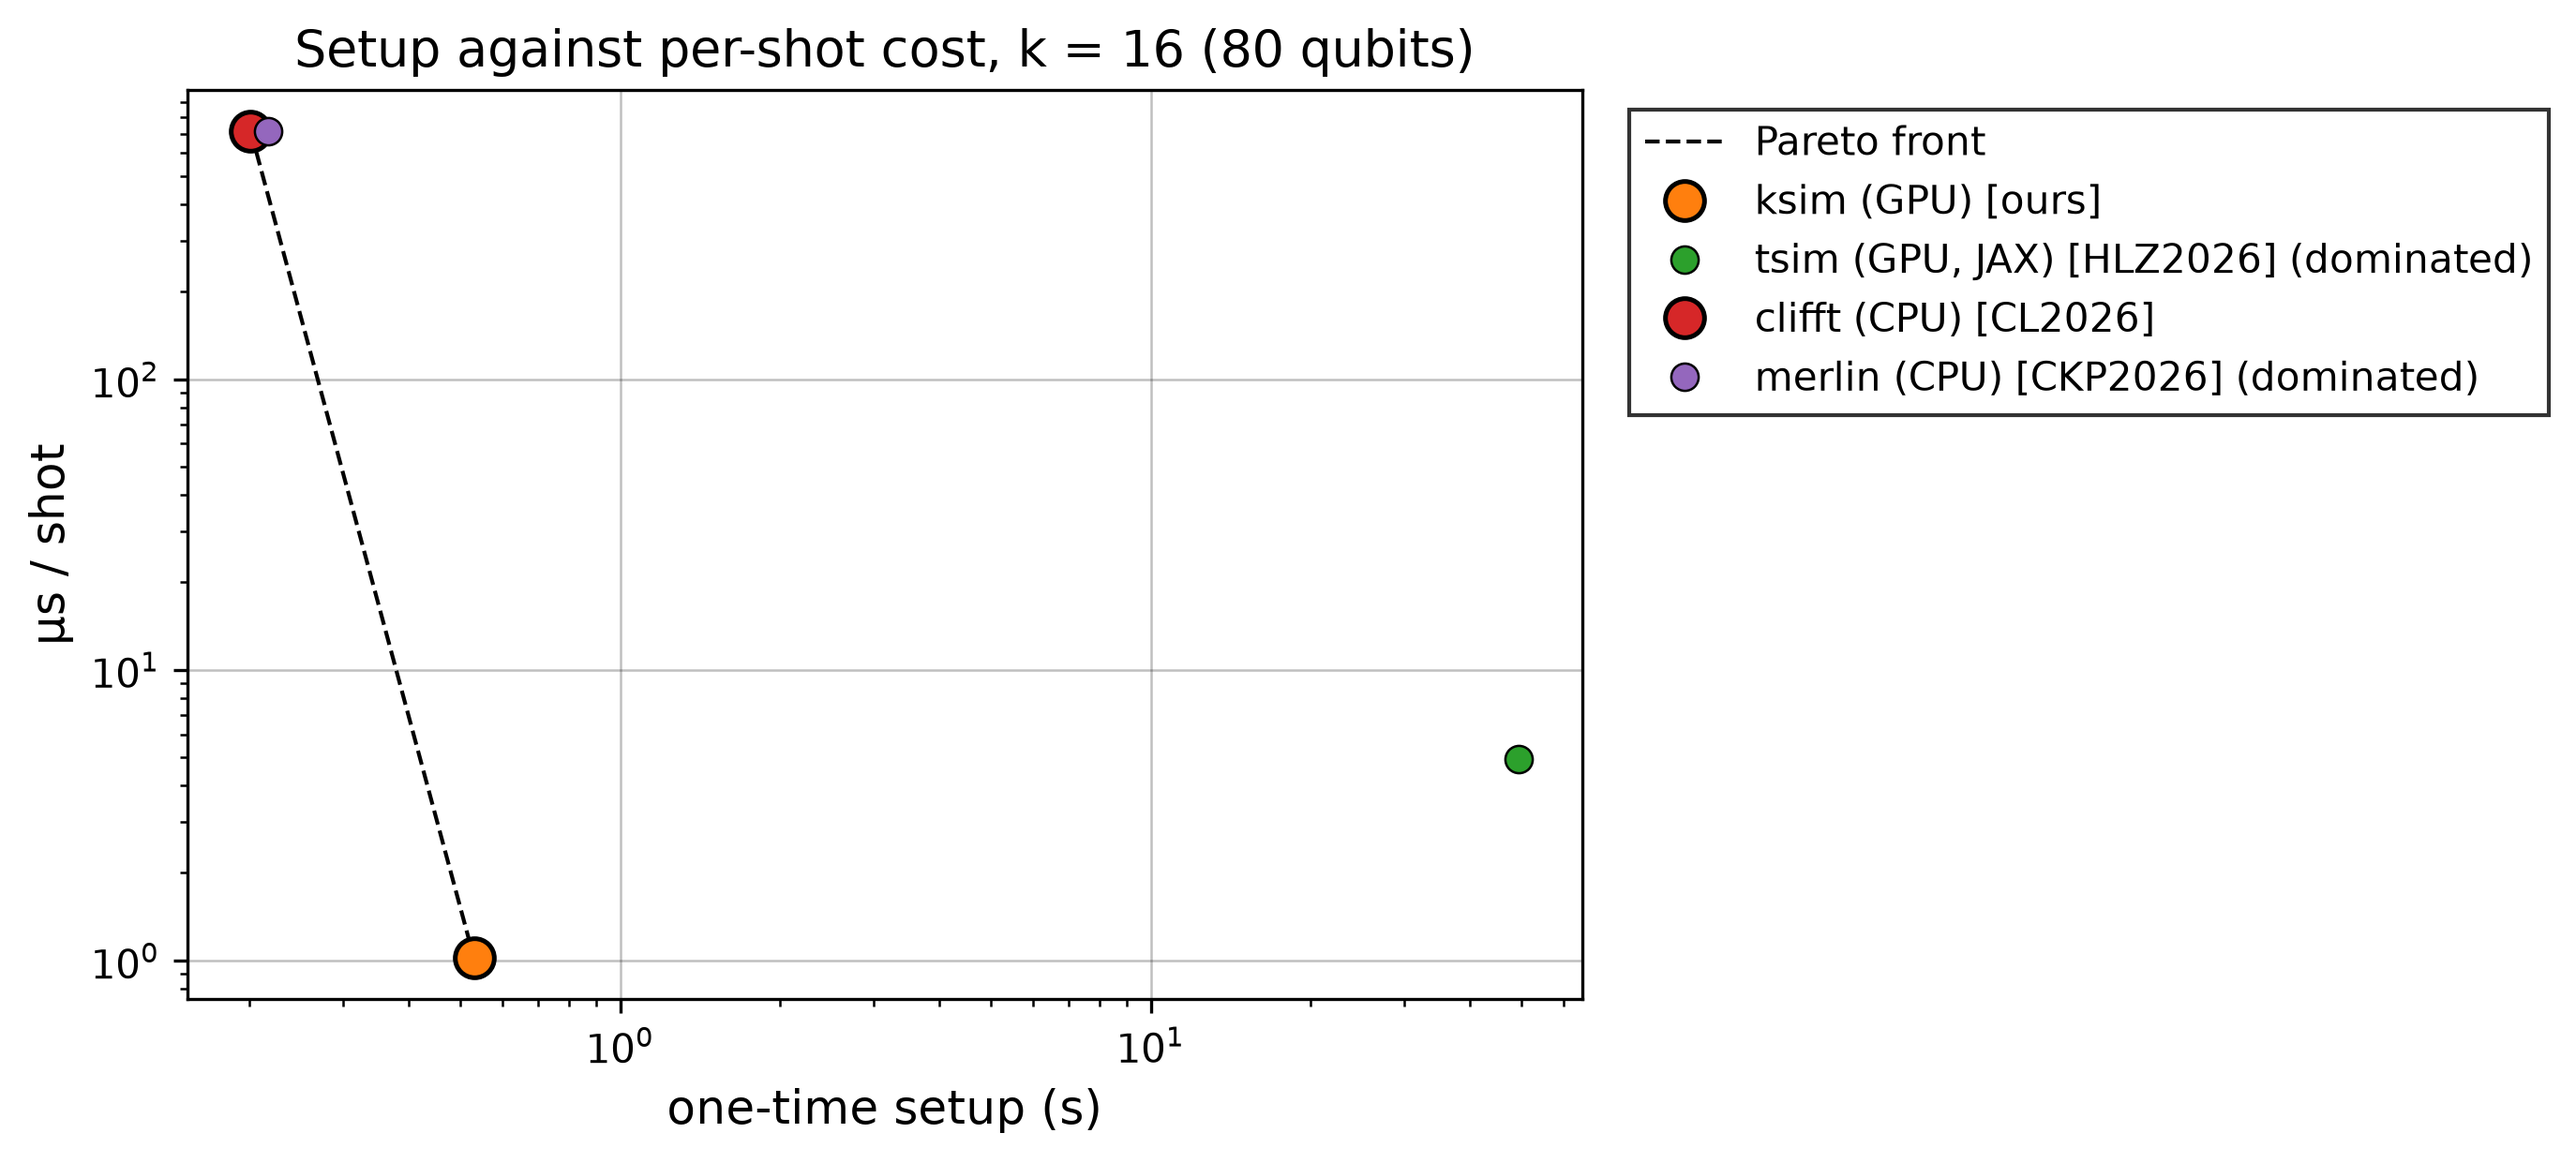
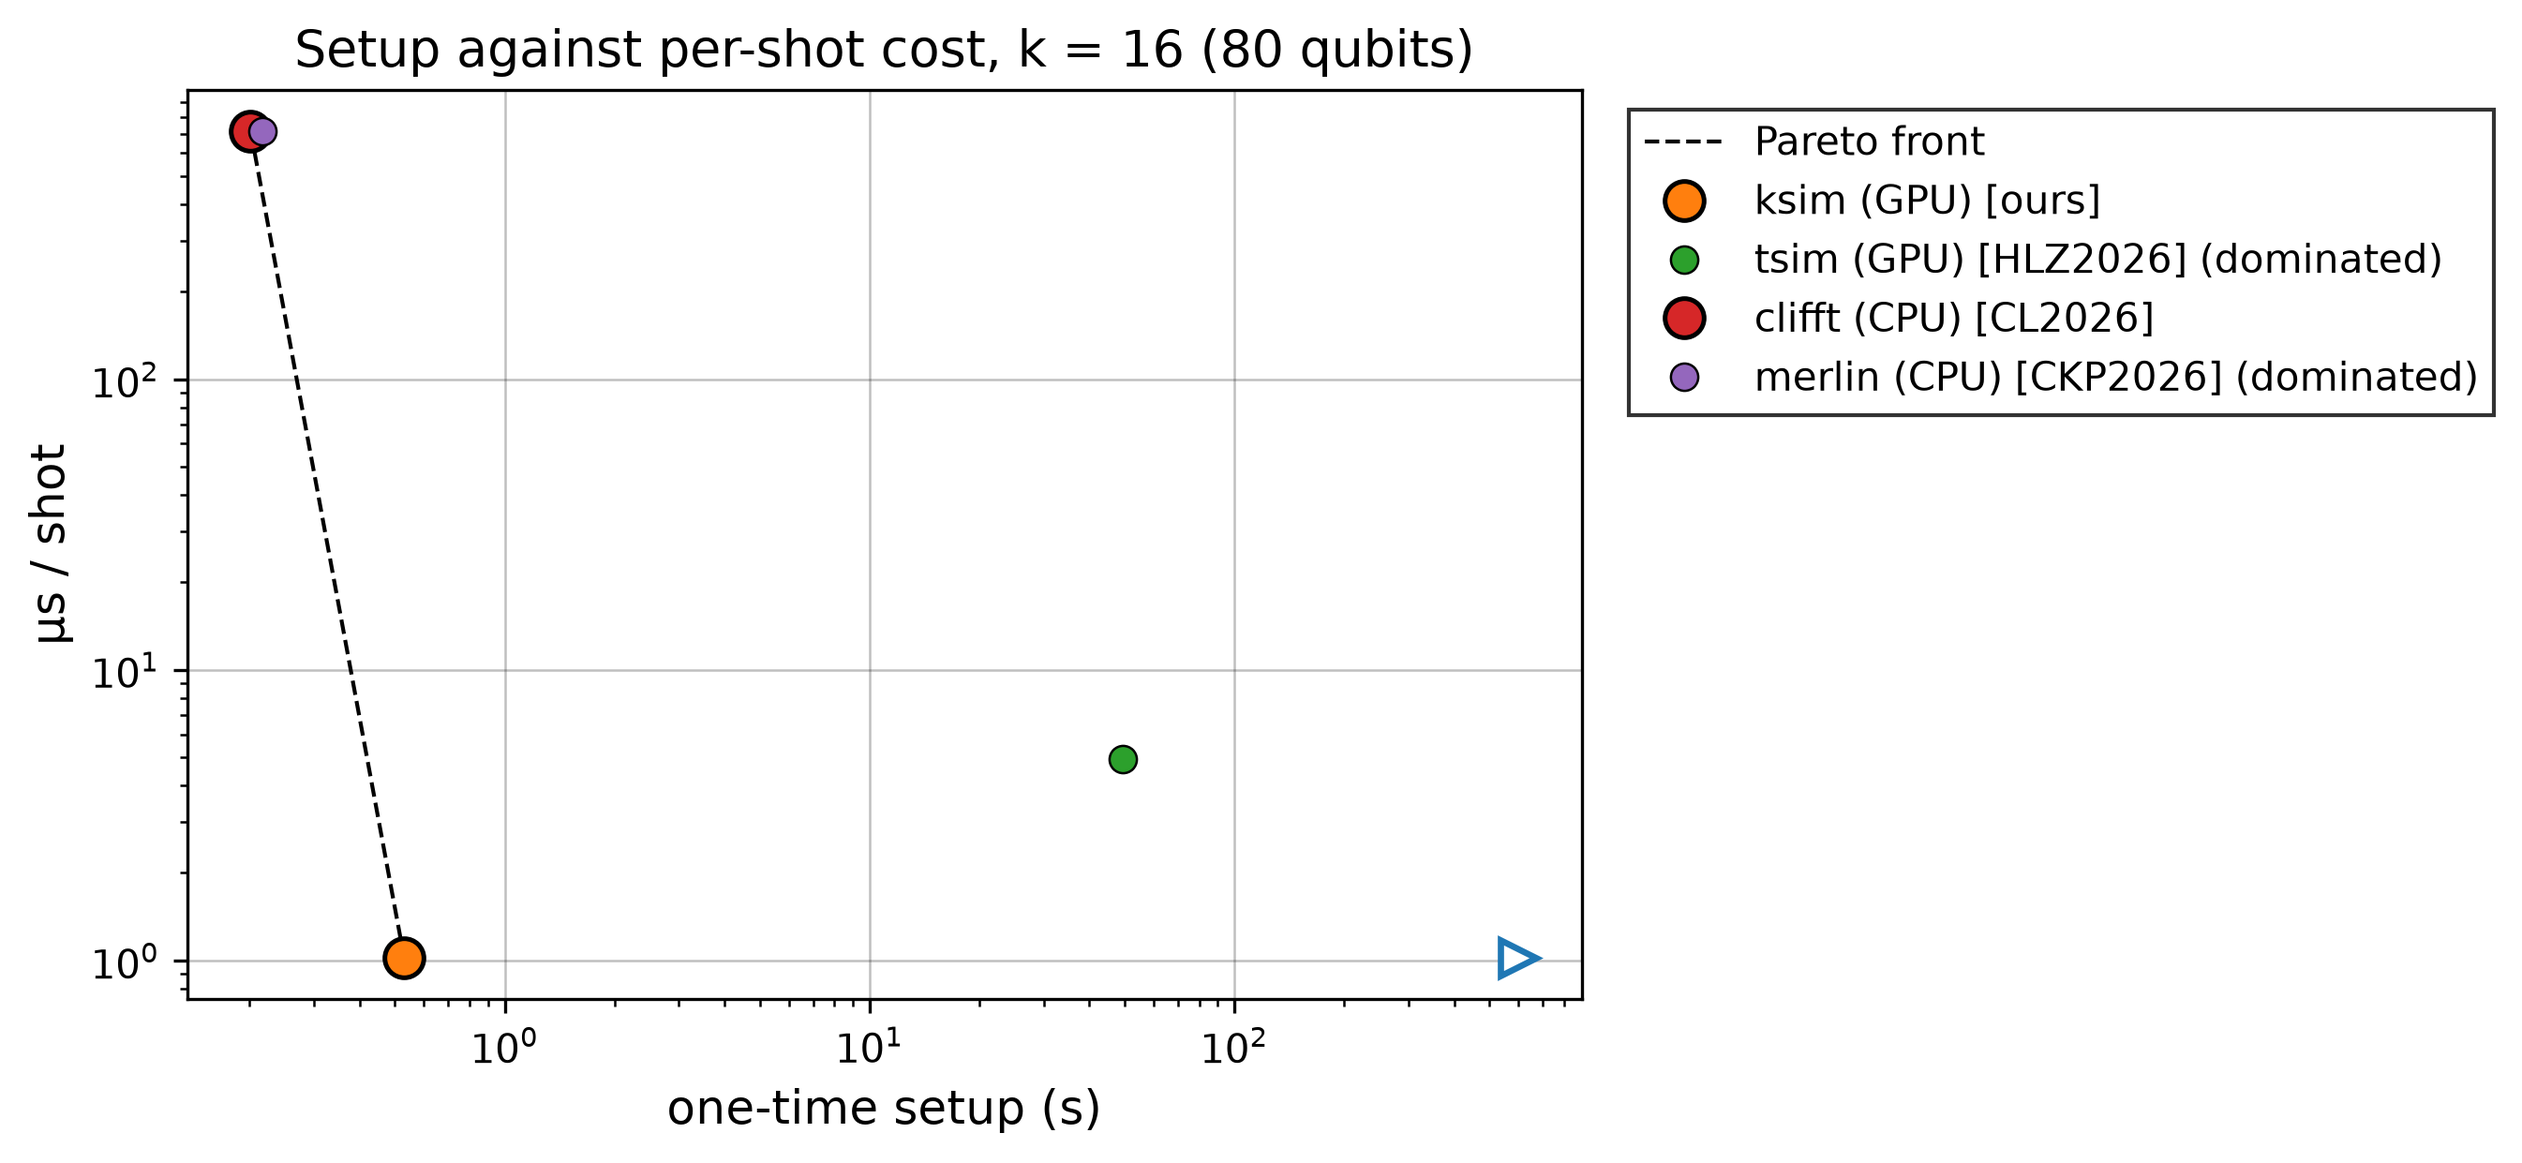
bench_scaling: time xtim's sampler build alone; re-measured xtim
compile_detector_sampler does not use the reference built by a separate
compile_reference() call, so that call only inflated xtim's setup 2-3.6x.
xtim re-measured: 110 s at k=14, 264 s at k=15, killed at k=16. Crossovers
in docs/benchmarks.md moved accordingly (ksim fastest from k=10 at 1e6
shots, k=14 at 1e8). tsim legend label drops 'JAX'.

diff --git a/benchmarks/bench_scaling.py b/benchmarks/bench_scaling.py
@@ -150,14 +150,14 @@ def warm(draw, shots, seconds, batch=None):
 def xtim_point(text, shots, seconds, q):
     import xtim
     t0 = time.perf_counter()
-    circuit = xtim.Circuit(text)
-    chi = circuit.compile_reference().chi
-    sampler = circuit.compile_detector_sampler(seed=7)
+    # The sampler builds what it needs itself; a separate compile_reference() would
+    # only add its own cost (χ = 2^k here by construction, so it is not measured).
+    sampler = xtim.Circuit(text).compile_detector_sampler(seed=7)
     sampler.sample(256)
     setup = time.perf_counter() - t0
     us, n, dets = warm(lambda m: np.asarray(sampler.sample(m, separate_observables=True)[0]),
                        shots, seconds)
-    q.put({"chi": chi, "setup_s": setup, "us_per_shot": us, "shots": n,
+    q.put({"setup_s": setup, "us_per_shot": us, "shots": n,
            "rates": dets.mean(axis=0).tolist()})
 
 

diff --git a/benchmarks/plot_scaling.py b/benchmarks/plot_scaling.py
@@ -46,7 +46,7 @@ COLOURS = {"xtim": "#1f77b4", "ksim": "#ff7f0e", "tsim": "#2ca02c",
            "clifft": "#d62728", "merlin": "#9467bd"}
 LABELS = {"xtim": "xtim (CPU) [SDK2025]",
           "ksim": "ksim (GPU) [ours]",
-          "tsim": "tsim (GPU, JAX) [HLZ2026]",
+          "tsim": "tsim (GPU) [HLZ2026]",
           "clifft": "clifft (CPU) [CL2026]",
           "merlin": "merlin (CPU) [CKP2026]"}
 # SDK2025         arXiv:2512.23799   Surti, Daguerre, Kim, "Efficient simulation of logical

diff --git a/docs/benchmarks.md b/docs/benchmarks.md
@@ -48,10 +48,10 @@ within 2.5σ across all six of its protocol circuits.
 - **Scaling:** kokkos_sim scales where xtim, clifft and tsim do not ([scaling](#scaling)).
   - Over k independent magic states, its setup stays at 0.3–0.5 s and its per-shot cost grows
     linearly (0.03 → 1.0 µs/shot from k = 1 to 16).
-  - xtim compiles a reference of χ = 2^k, growing ~×2.5 per state, and stops finishing in 10 min
-    at k = 15. clifft's per-shot cost doubles per state (713 µs/shot at k = 16).
+  - xtim builds a sampler for χ = 2^k, growing ~×2.4 per state, and stops finishing in 10 min
+    at k = 16. clifft's per-shot cost doubles per state (713 µs/shot at k = 16).
   - kokkos_sim is on the setup/per-shot Pareto front at every k; tsim and merlin never are.
-  - It is the fastest end to end from k = 8 at 10^6 shots and from k = 12 at 10^8.
+  - It is the fastest end to end from k = 10 at 10^6 shots and from k = 14 at 10^8.
   - It also samples circuits outside xtim's class (T-depth ≥ 2), which xtim refuses.
 - **tsim** runs the same stabilizer-rank sum as kokkos_sim, ~25–350× slower and with a 10–14 s
   JIT per circuit shape.
@@ -137,7 +137,7 @@ Decision guide — which sampler to use:
 | Magic-state prep inside generalized T-depth 1 | xtim | χ = 2^{folded rank}, T-count free; exact per-shot ⟨P⟩ |
 | Non-Clifford, small peak_rank (k ≤ ~8) | clifft | 2^k ≤ 256 amplitudes, no GPU needed |
 | Non-Clifford, many T-gates (t ≥ 15) | kokkos_sim | χ ≈ 2^{0.228t} beats 2^k at scale; GPU |
-| Many independent magic states (k ≳ 8 at 10^6 shots, k ≳ 12 at 10^8, any k ≥ 15) | kokkos_sim | cost linear in k; xtim's reference compile grows ~2.5× per state and clifft's per-shot cost ×2 per state ([scaling](#scaling)) |
+| Many independent magic states (k ≳ 10 at 10^6 shots, k ≳ 14 at 10^8, any k ≥ 16) | kokkos_sim | cost linear in k; xtim's sampler build grows ~2.4× per state and clifft's per-shot cost ×2 per state ([scaling](#scaling)) |
 | T-depth ≥ 2 after folding (xtim refuses) | kokkos_sim | stabilizer-rank has no structural restriction on the T layer |
 | Rare-event LER (no millions of shots) | clifft | `sample_k()` importance sampling — unique |
 
@@ -160,17 +160,17 @@ Each cell is setup / µs per shot:
 
 | k | qubits | xtim (χ = 2^k) | ksim | tsim | clifft | merlin |
 |---|---|---|---|---|---|---|
-| 1 | 5 | 0.004 s / 0.050 | 0.33 s / **0.030** | 4.7 s / 0.90 | 0.001 s / 0.064 | 0.002 s / 5.0 |
-| 2 | 10 | 0.007 s / **0.048** | 0.29 s / 0.067 | 8.1 s / 1.12 | 0.002 s / 0.17 | 0.006 s / 13.7 |
-| 4 | 20 | 0.025 s / **0.039** | 0.33 s / 0.14 | 14.3 s / 1.55 | 0.002 s / 0.53 | 0.019 s / 44 |
-| 6 | 30 | 0.14 s / **0.050** | 0.35 s / 0.24 | 20.3 s / 2.23 | 0.002 s / 1.47 | 0.036 s / 92 |
-| 8 | 40 | 0.96 s / **0.059** | 0.39 s / 0.36 | 26.0 s / 2.89 | 0.003 s / 2.8 | 0.067 s / 180 |
-| 10 | 50 | 7.4 s / **0.055** | 0.42 s / 0.49 | 32.4 s / 3.68 | 0.005 s / 8.6 | 0.089 s / 275 |
-| 12 | 60 | 67 s / **0.061** | 0.46 s / 0.61 | 38.0 s / 4.00 | 0.014 s / 40 | 0.12 s / 394 |
-| 13 | 65 | 164 s / **0.059** | 0.46 s / 0.68 | 41.0 s / 4.24 | 0.027 s / 83 | 0.14 s / 467 |
-| 14 | 70 | 400 s / **0.060** | 0.49 s / 0.75 | 44.1 s / 4.31 | 0.048 s / 168 | 0.16 s / 538 |
-| 15 | 75 | > 600 s (killed) | 0.50 s / **0.82** | 46.7 s / 4.70 | 0.091 s / 334 | 0.18 s / 627 |
-| 16 | 80 | not run | 0.53 s / **1.02** | 49.4 s / 4.92 | 0.20 s / 713 | 0.22 s / 714 |
+| 1 | 5 | 0.002 s / 0.050 | 0.33 s / **0.030** | 4.7 s / 0.90 | 0.001 s / 0.064 | 0.002 s / 5.0 |
+| 2 | 10 | 0.003 s / **0.046** | 0.29 s / 0.067 | 8.1 s / 1.12 | 0.002 s / 0.17 | 0.006 s / 13.7 |
+| 4 | 20 | 0.013 s / **0.059** | 0.33 s / 0.14 | 14.3 s / 1.55 | 0.002 s / 0.53 | 0.019 s / 44 |
+| 6 | 30 | 0.063 s / **0.049** | 0.35 s / 0.24 | 20.3 s / 2.23 | 0.002 s / 1.47 | 0.036 s / 92 |
+| 8 | 40 | 0.44 s / **0.058** | 0.39 s / 0.36 | 26.0 s / 2.89 | 0.003 s / 2.8 | 0.067 s / 180 |
+| 10 | 50 | 2.9 s / **0.044** | 0.42 s / 0.49 | 32.4 s / 3.68 | 0.005 s / 8.6 | 0.089 s / 275 |
+| 12 | 60 | 18.5 s / **0.052** | 0.46 s / 0.61 | 38.0 s / 4.00 | 0.014 s / 40 | 0.12 s / 394 |
+| 13 | 65 | 45 s / **0.058** | 0.46 s / 0.68 | 41.0 s / 4.24 | 0.027 s / 83 | 0.14 s / 467 |
+| 14 | 70 | 110 s / **0.069** | 0.49 s / 0.75 | 44.1 s / 4.31 | 0.048 s / 168 | 0.16 s / 538 |
+| 15 | 75 | 264 s / **0.078** | 0.50 s / 0.82 | 46.7 s / 4.70 | 0.091 s / 334 | 0.18 s / 627 |
+| 16 | 80 | > 600 s (killed) | 0.53 s / **1.02** | 49.4 s / 4.92 | 0.20 s / 713 | 0.22 s / 714 |
 
 Detector fire rates of xtim, tsim and clifft agree with ksim within 3.0σ at every k. merlin returns
 raw measurements rather than detectors, so it is timed only.
@@ -178,20 +178,23 @@ raw measurements rather than detectors, so it is timed only.
 ![One-time cost against k](../example/figure/scaling_setup.png)
 
 **Setup.** xtim pays χ once, at build time. Its folded π/8 layer has rank k, so its reference
-state has χ = 2^k, and compiling it grows ~×2.5 per added magic state: from milliseconds at
-k ≤ 4 to 400 s at k = 14. It did not finish within 10 min at k = 15.
+state has χ = 2^k, and building the sampler grows ~×2.4 per added magic state: from milliseconds
+at k ≤ 4 to 110 s at k = 14 and 264 s at k = 15. It did not finish within 10 min at k = 16.
+The timed setup is `compile_detector_sampler` alone; an earlier version of the script also
+called `compile_reference()`, which the sampler does not use and which doubled to tripled the
+recorded cost.
 - ksim compiles each disconnected component on its own, so its setup stays at 0.3–0.5 s
-  across the whole range. It crosses below xtim at k ≈ 7.
+  across the whole range. It crosses below xtim at k ≈ 8.
 - tsim's XLA compile grows linearly, from 5 s to 49 s.
 - clifft and merlin build in milliseconds.
 
 ![Per-shot cost against k](../example/figure/scaling_per_shot.png)
 
 **Per shot.**
-- **xtim** holds 0.04–0.06 µs/shot at every k it can build, because its twirl engine does not
+- **xtim** holds 0.04–0.08 µs/shot at every k it can build, because its twirl engine does not
   pay χ per shot.
 - **ksim** grows linearly, ~0.066 µs/shot per copy, from 0.030 to 1.02 µs/shot. It beats xtim at
-  k = 1, and is 12× slower at k = 14.
+  k = 1, and is 11× slower at k = 14.
 - **clifft** doubles per magic state (2^k active amplitudes). It is slower than ksim per shot
   from k = 1 (0.064 against 0.030), and reaches 713 µs/shot at k = 16.
 - **tsim** runs the same stabilizer-rank sum as ksim, 5–30× slower per shot and 14–93× slower
@@ -203,11 +206,11 @@ k ≤ 4 to 400 s at k = 14. It did not finish within 10 min at k = 15.
 ![Wall time for 10^6 shots against k](../example/figure/scaling_wall_1e6.png)
 
 **End to end, setup included:**
-- **N = 10^6 shots:** ksim is the fastest engine from k = 8 on (0.75 s against 1.0 s for xtim;
-  1.2 s against 400 s at k = 14).
-- **N = 10^8 shots:** xtim's per-shot lead outweighs its build through k = 10. ksim is the
-  fastest from k = 12 (62 s against 73 s), and at k = 14 it takes 76 s against 406 s.
-- **k ≥ 15:** xtim produces no samples. At k = 16 and N = 10^8, ksim takes 102 s, tsim 540 s and
+- **N = 10^6 shots:** ksim is the fastest engine from k = 10 on (0.90 s against 3.0 s for xtim;
+  1.2 s against 110 s at k = 14, 1.3 s against 264 s at k = 15).
+- **N = 10^8 shots:** xtim's per-shot lead outweighs its build through k = 13. ksim is the
+  fastest from k = 14 (76 s against 117 s), and at k = 15 it takes 83 s against 272 s.
+- **k ≥ 16:** xtim produces no samples. At k = 16 and N = 10^8, ksim takes 102 s, tsim 540 s and
   clifft ~20 h.
 
 **The Pareto front.** At a fixed k, each engine is a point in the (setup, µs/shot) plane. The
@@ -521,7 +524,7 @@ direct consequence of that choice.
 | **tsim** | ZX stabilizer-rank, complex64 on XLA | T-count, χ ≈ 2^{0.228t} | nothing in this comparison | reach kokkos_sim's precision (2.7e-8 vs 1.1e-16) or amortize its 9.5–14.1 s JIT per circuit shape |
 | **kokkos_sim** | ZX stabilizer-rank, int64 ℤ[ω] on CUDA | T-count, χ ≈ 2^{0.228t} | encoded non-Clifford at batch scale: 85q distillation at ~1.6 µs/shot, ~350× faster than tsim | survive a large T-count — d=5 cultivation (11 T-gates) exhausted 24 GB of compile without emitting a program. Scales linearly in independent magic states: 16 copies set up in 2.7 s |
 | **clifft** | factored statevector over the active subspace | active dimension k, 2^k | small non-Clifford, low peak_rank: 0.27 µs/shot on the logical 5q distillation; the only importance sampler (`sample_k()`) | hold up as k grows — the 85q encoded circuit is est. 100–10 000 µs/shot |
-| **xtim** | one folded π/8 layer + exact reference state | folded magic rank, χ = 2^{rank} | magic-state preparation: 0.03–4.8 µs/shot regardless of T-count; the only exact per-shot ⟨P⟩ | anything outside generalized T-depth 1 — a single H between two T gates is a hard refusal; many independent magic states — the reference compile grows ~2.5× per state, > 10 min at 15 |
+| **xtim** | one folded π/8 layer + exact reference state | folded magic rank, χ = 2^{rank} | magic-state preparation: 0.03–4.8 µs/shot regardless of T-count; the only exact per-shot ⟨P⟩ | anything outside generalized T-depth 1 — a single H between two T gates is a hard refusal; many independent magic states — the sampler build grows ~2.4× per state, > 10 min at 16 |
 
 Read as a decision, that is four regimes. Clifford work belongs to stim, and
 nothing else comes close. Magic-state *preparation*
